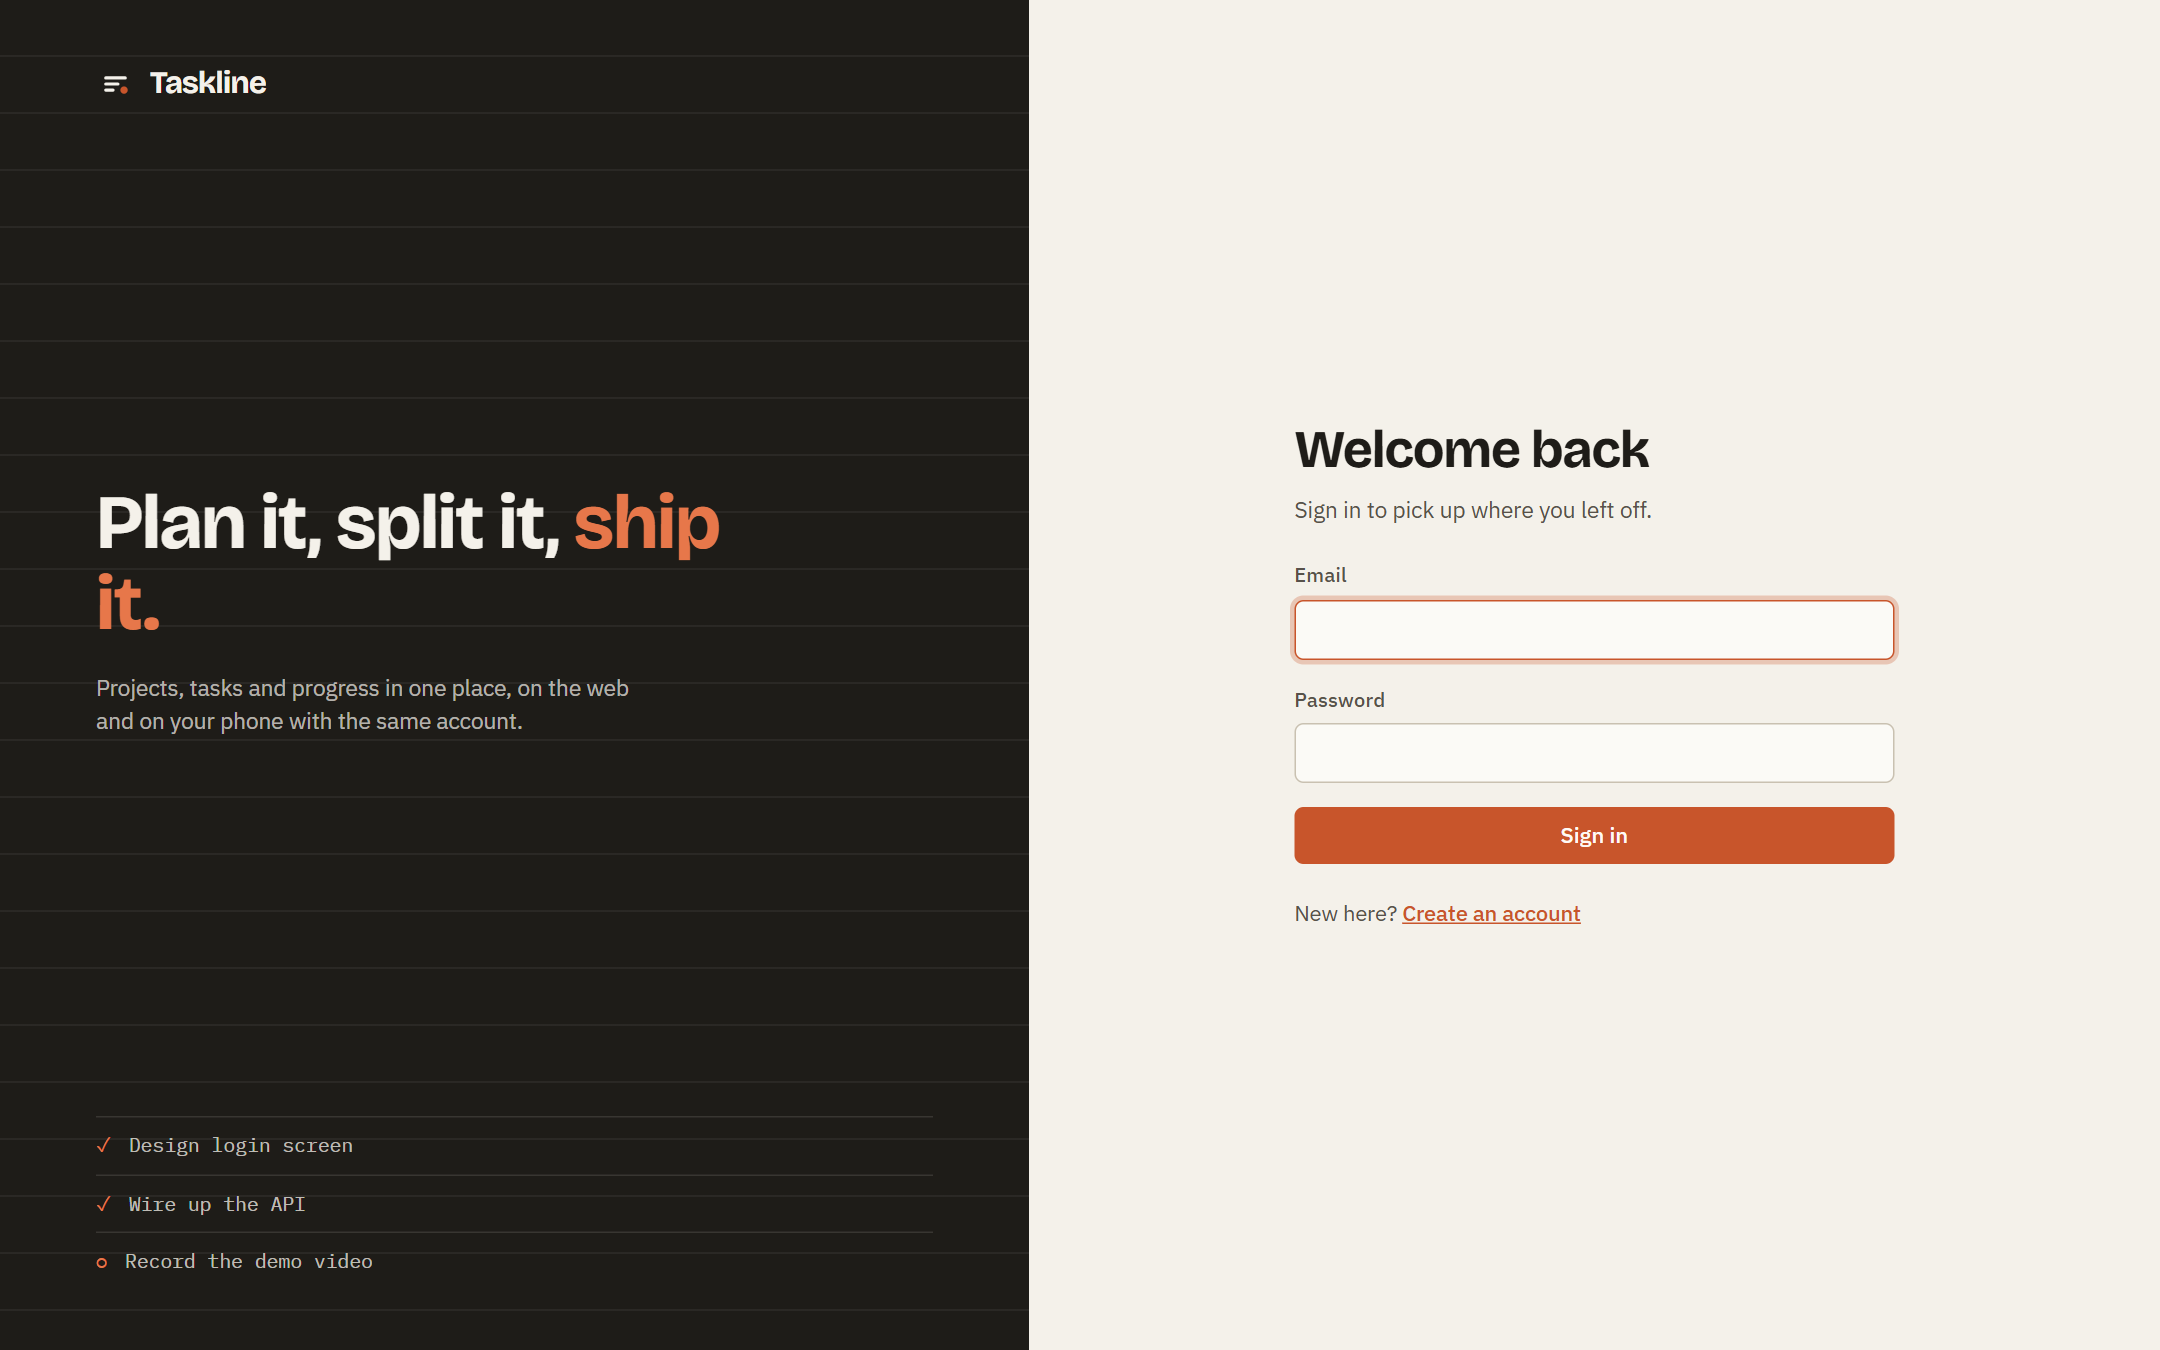
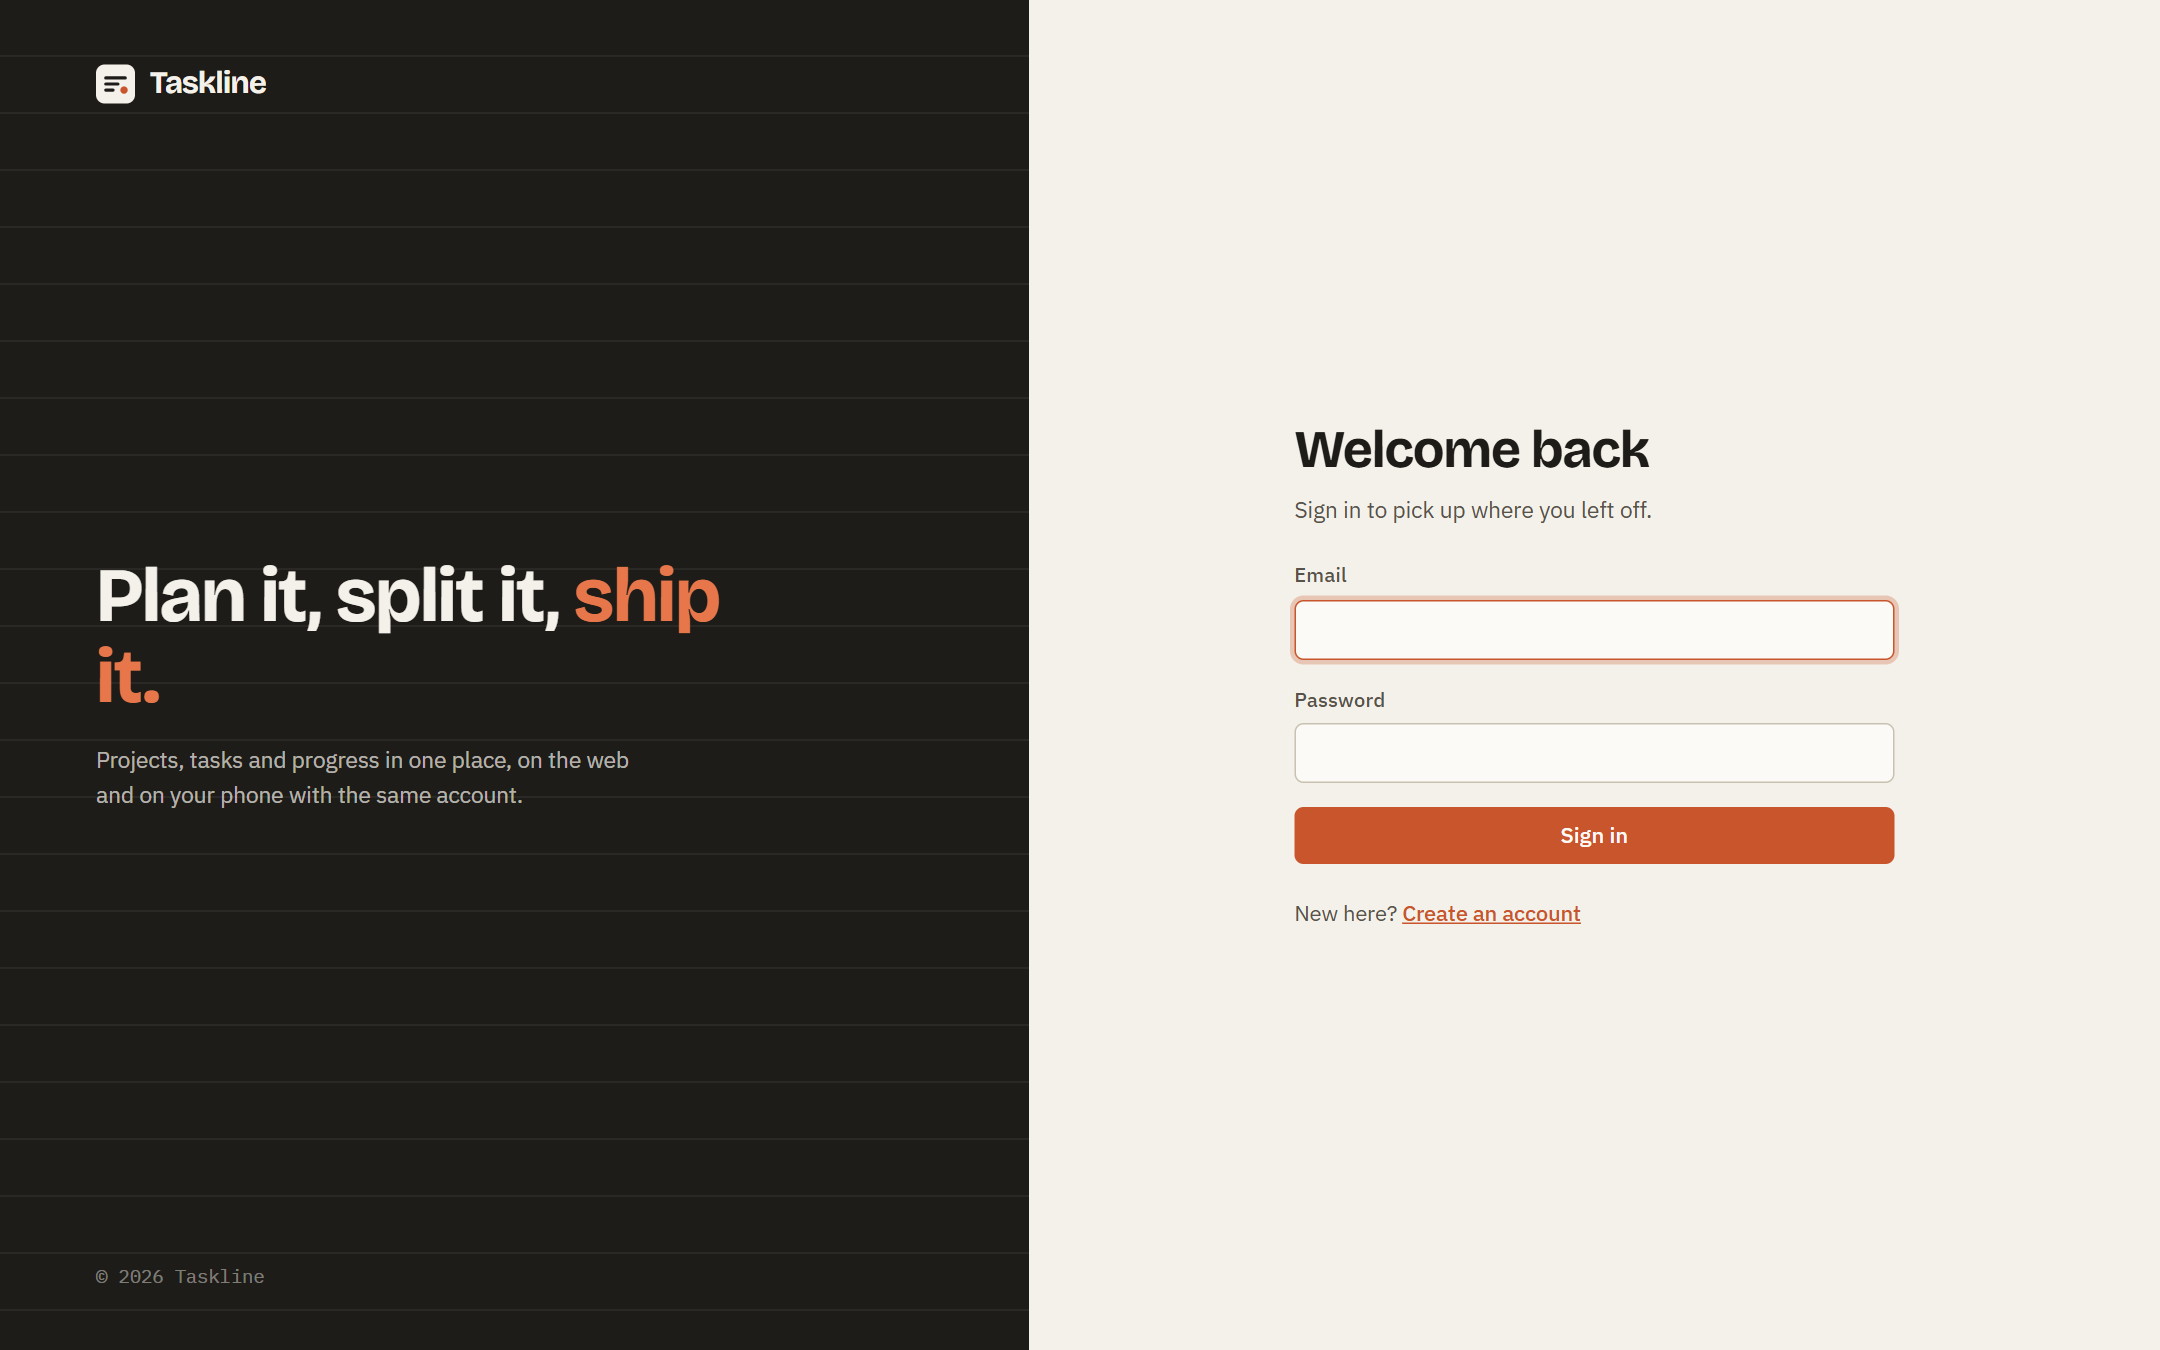
Clean signup

diff --git a/web/src/pages/auth.module.css b/web/src/pages/auth.module.css
@@ -14,6 +14,9 @@
   background: #1e1c18;
   color: #f4f1ea;
   overflow: hidden;
+  /* The panel is always dark, so flip the logo's colours to keep its tile visible in light mode. */
+  --ink: #f4f1ea;
+  --bg: #1e1c18;
 }
 
 /* faint ruled paper lines */
@@ -62,22 +65,10 @@
   color: rgba(244, 241, 234, 0.7);
 }
 
-.ledger {
-  list-style: none;
-  margin: 0;
-  padding: 0;
+.footnote {
   font-family: var(--font-mono);
-  font-size: 0.82rem;
-  color: rgba(244, 241, 234, 0.75);
-}
-.ledger li {
-  display: flex;
-  gap: 12px;
-  padding: 9px 0;
-  border-top: 1px solid rgba(244, 241, 234, 0.12);
-}
-.ledger li span:first-child {
-  color: #e7774a;
+  font-size: 0.78rem;
+  color: rgba(244, 241, 234, 0.45);
 }
 
 .formSide {
@@ -122,7 +113,7 @@
     padding: 28px 20px;
     gap: 20px;
   }
-  .ledger {
+  .footnote {
     display: none;
   }
   .pitch h1 {

diff --git a/web/src/pages/AuthLayout.tsx b/web/src/pages/AuthLayout.tsx
@@ -18,17 +18,7 @@ export function AuthLayout({ children }: { children: ReactNode }) {
           </h1>
           <p>Projects, tasks and progress in one place, on the web and on your phone with the same account.</p>
         </div>
-        <ul className={styles.ledger} aria-hidden>
-          <li>
-            <span>✓</span> Design login screen
-          </li>
-          <li>
-            <span>✓</span> Wire up the API
-          </li>
-          <li>
-            <span>○</span> Record the demo video
-          </li>
-        </ul>
+        <p className={styles.footnote}>© {new Date().getFullYear()} Taskline</p>
       </aside>
       <div className={styles.formSide}>{children}</div>
     </div>

diff --git a/README.md b/README.md
@@ -11,7 +11,7 @@ A project and task manager with a **React web app** and an **Android app (Expo /
 
 Live links (fill in after deploying, see [docs/DEPLOYMENT.md](docs/DEPLOYMENT.md)):
 
-- Web app: `https://…`
+- Web app: https://task-line-omega.vercel.app
 - API: https://taskline-api-7gr3.onrender.com/api/health
 - Android APK: `https://expo.dev/…`
 - Interactive API docs: https://taskline-api-7gr3.onrender.com/api/docs
